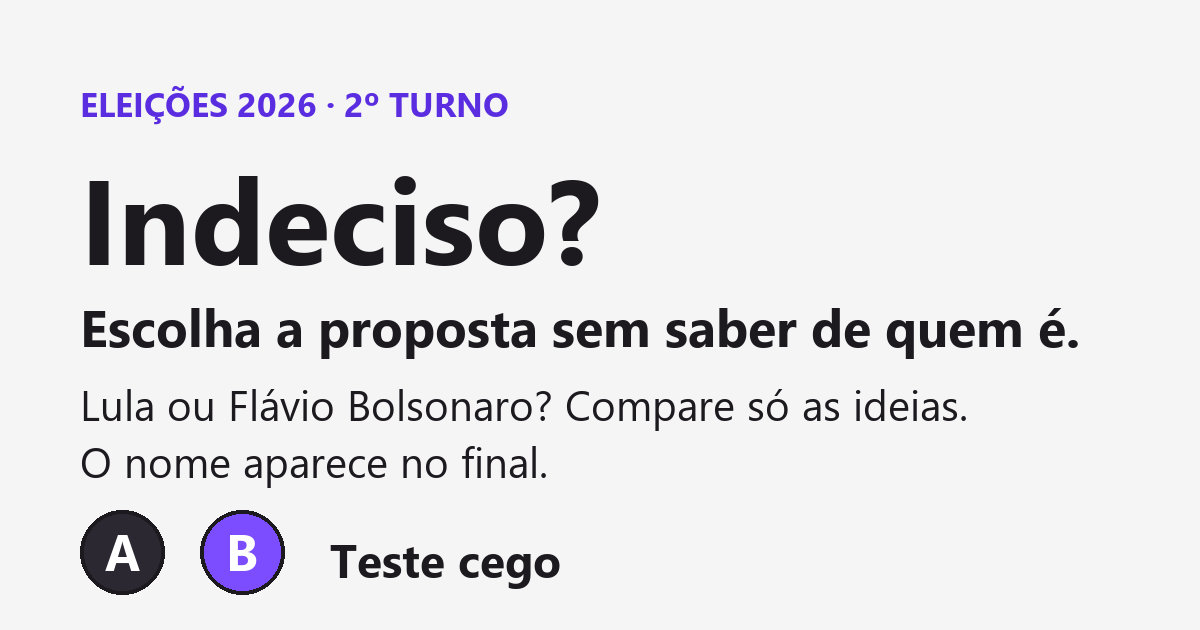
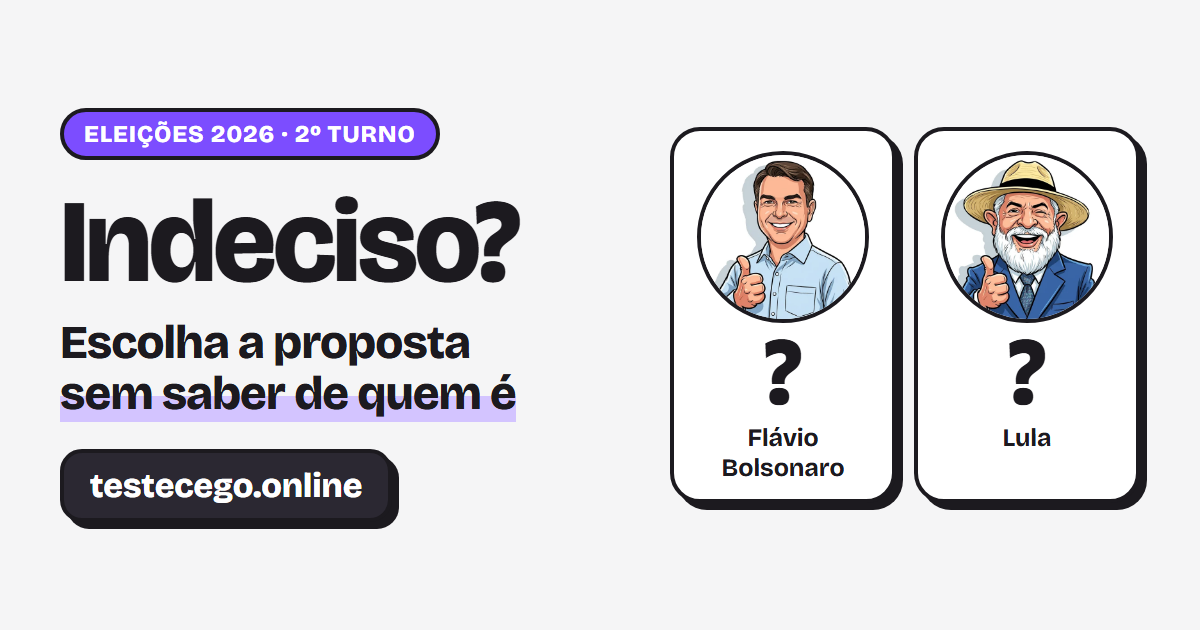
Nova imagem de prévia do link, no visual do site

Changed region(s): [[0.0308, 0.181, 0.9558, 0.9651], [0.0308, 0.1206, 0.5242, 0.4524]]

diff --git a/index.html b/index.html
@@ -8,7 +8,9 @@
   <meta property="og:type" content="website">
   <meta property="og:title" content="Indeciso? Faça o teste cego das eleições 2026">
   <meta property="og:description" content="Compare propostas de Lula e Flávio Bolsonaro sem saber de quem são. No final, descubra com quem você mais concorda.">
-  <meta property="og:image" content="https://testecego.online/img/og.png?v=1.6">
+  <meta property="og:image" content="https://testecego.online/img/og.png?v=1.7">
+  <meta property="og:image:width" content="1200">
+  <meta property="og:image:height" content="630">
   <meta property="og:url" content="https://testecego.online/">
   <meta name="twitter:card" content="summary_large_image">
   <meta name="theme-color" content="#f5f5f6">
@@ -20,9 +22,9 @@
       document.documentElement.dataset.theme = tema;
     })();
   </script>
-  <link rel="icon" href="img/icone.svg?v=1.6" type="image/svg+xml">
+  <link rel="icon" href="img/icone.svg?v=1.7" type="image/svg+xml">
   <link rel="preload" href="fonts/bricolage-grotesque.woff2" as="font" type="font/woff2" crossorigin>
-  <link rel="stylesheet" href="css/style.css?v=1.6">
+  <link rel="stylesheet" href="css/style.css?v=1.7">
 </head>
 <body>
   <header class="topo">
@@ -42,7 +44,7 @@
     <a href="sobre.html">Como funciona, fontes e privacidade</a>
     <span>Projeto independente, sem vínculo com candidatos ou partidos.</span>
   </footer>
-  <script type="module" src="js/tema.js?v=1.6"></script>
-  <script type="module" src="js/app.js?v=1.6"></script>
+  <script type="module" src="js/tema.js?v=1.7"></script>
+  <script type="module" src="js/app.js?v=1.7"></script>
 </body>
 </html>

diff --git a/js/app.js b/js/app.js
@@ -1,7 +1,7 @@
-import { calcular } from './pontuacao.js?v=1.6';
-import { registrar, marcar } from './contagem.js?v=1.6';
-import { compartilhar } from './compartilhar.js?v=1.6';
-import { REINICIAR_AO_RECARREGAR } from './config.js?v=1.6';
+import { calcular } from './pontuacao.js?v=1.7';
+import { registrar, marcar } from './contagem.js?v=1.7';
+import { compartilhar } from './compartilhar.js?v=1.7';
+import { REINICIAR_AO_RECARREGAR } from './config.js?v=1.7';
 
 const CHAVE = 'teste-cego:v2';
 const app = document.getElementById('app');
@@ -247,7 +247,7 @@ function telaResultado() {
 }
 
 async function iniciar() {
-  dados = await (await fetch('data/rodadas.json?v=1.6')).json();
+  dados = await (await fetch('data/rodadas.json?v=1.7')).json();
   const validos = new Set(dados.rodadas.map((r) => r.id));
   estado = REINICIAR_AO_RECARREGAR ? null : lerEstado();
   // Estado salvo de uma versão com outras rodadas: completa a ordem em vez de zerar.

diff --git a/sobre.html b/sobre.html
@@ -13,8 +13,8 @@
       document.documentElement.dataset.theme = tema;
     })();
   </script>
-  <link rel="icon" href="img/icone.svg?v=1.6" type="image/svg+xml">
-  <link rel="stylesheet" href="css/style.css?v=1.6">
+  <link rel="icon" href="img/icone.svg?v=1.7" type="image/svg+xml">
+  <link rel="stylesheet" href="css/style.css?v=1.7">
 </head>
 <body>
   <header class="topo">
@@ -74,6 +74,6 @@
     <p>Projeto independente de Thiago Areias, sem vínculo com candidatos, partidos ou campanhas, sem financiamento e sem impulsionamento pago. O código e os dados são abertos no <a href="https://github.com/areiasthiago/teste-cego-eleitoral">GitHub</a>; correções são bem-vindas por lá.</p>
   </main>
   <footer class="rodape"><a href="./">Voltar ao teste</a></footer>
-  <script type="module" src="js/tema.js?v=1.6"></script>
+  <script type="module" src="js/tema.js?v=1.7"></script>
 </body>
 </html>

diff --git a/js/compartilhar.js b/js/compartilhar.js
@@ -1,4 +1,4 @@
-import { SITE } from './config.js?v=1.6';
+import { SITE } from './config.js?v=1.7';
 
 // Formato de story (9:16), com respiro em cima e embaixo para a interface do aplicativo.
 const L = 1080;

diff --git a/js/contagem.js b/js/contagem.js
@@ -1,4 +1,4 @@
-import { CONTAGEM, ENVIAR_CONTAGEM } from './config.js?v=1.6';
+import { CONTAGEM, ENVIAR_CONTAGEM } from './config.js?v=1.7';
 
 const MEDIDO = 'teste-cego:medido';
 
